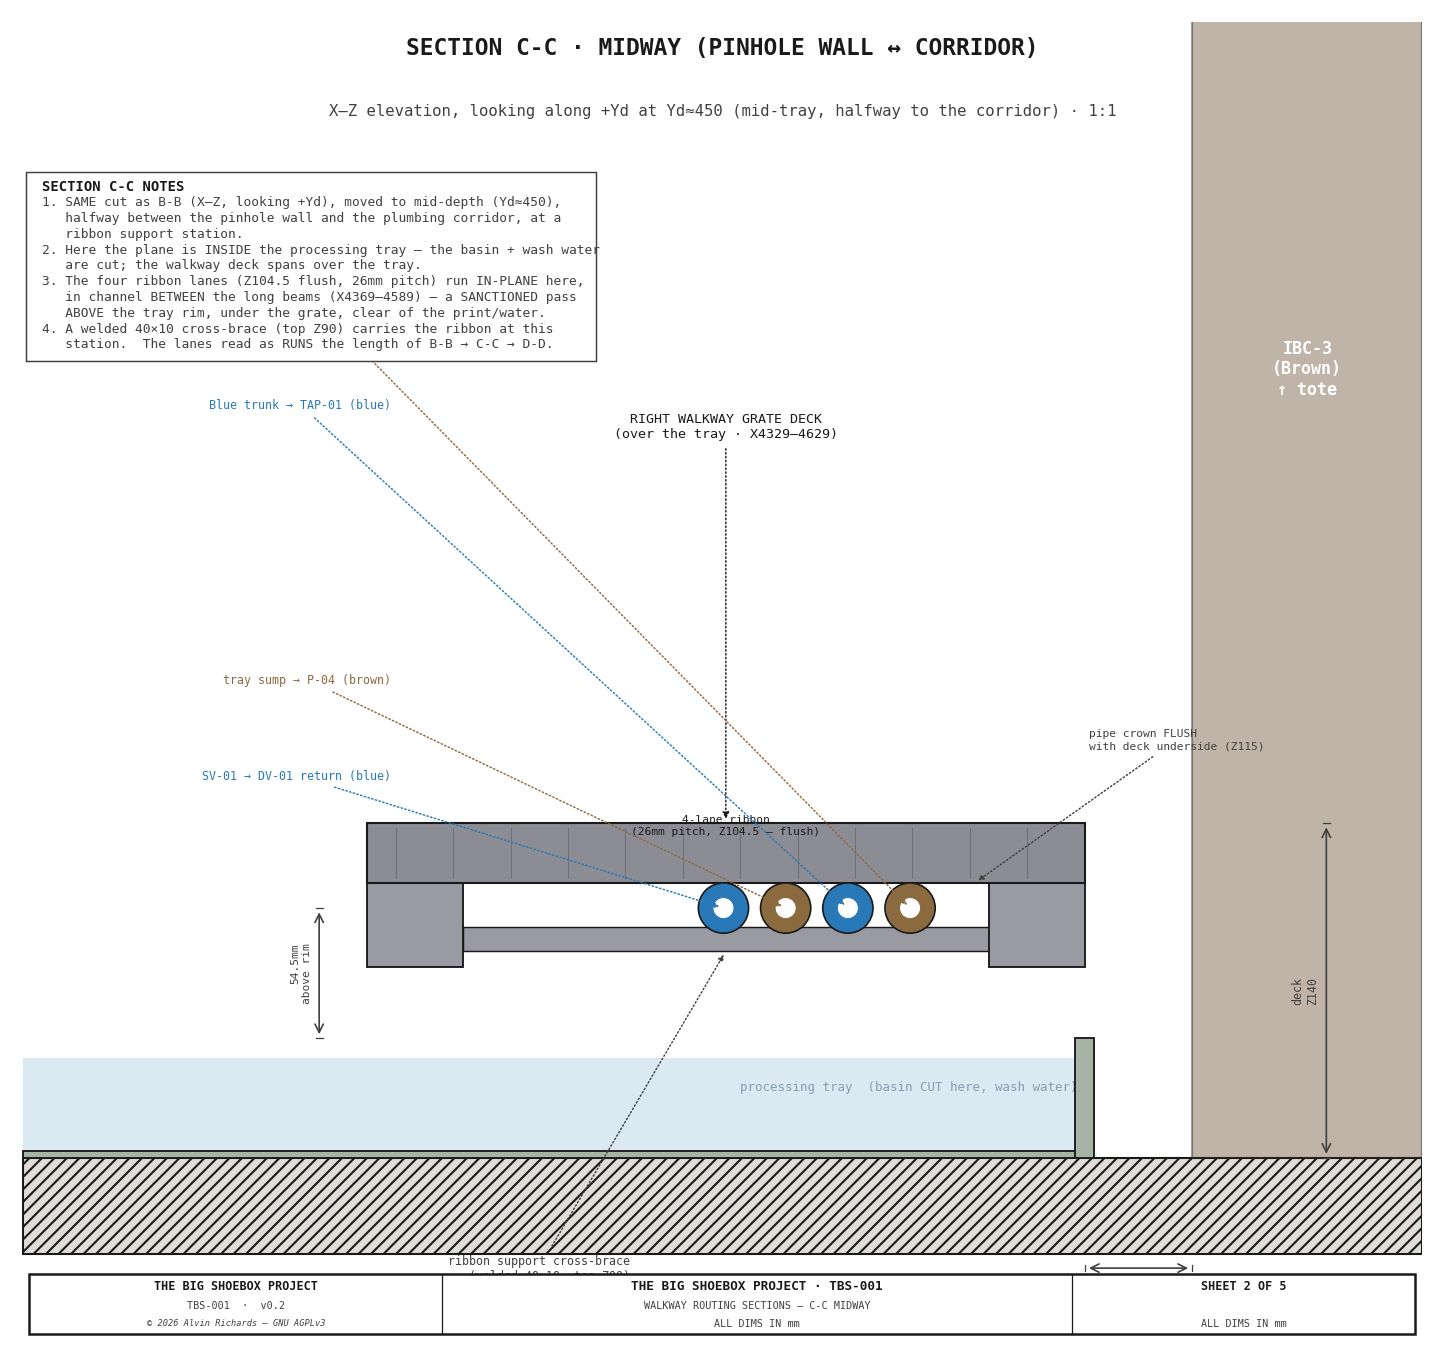
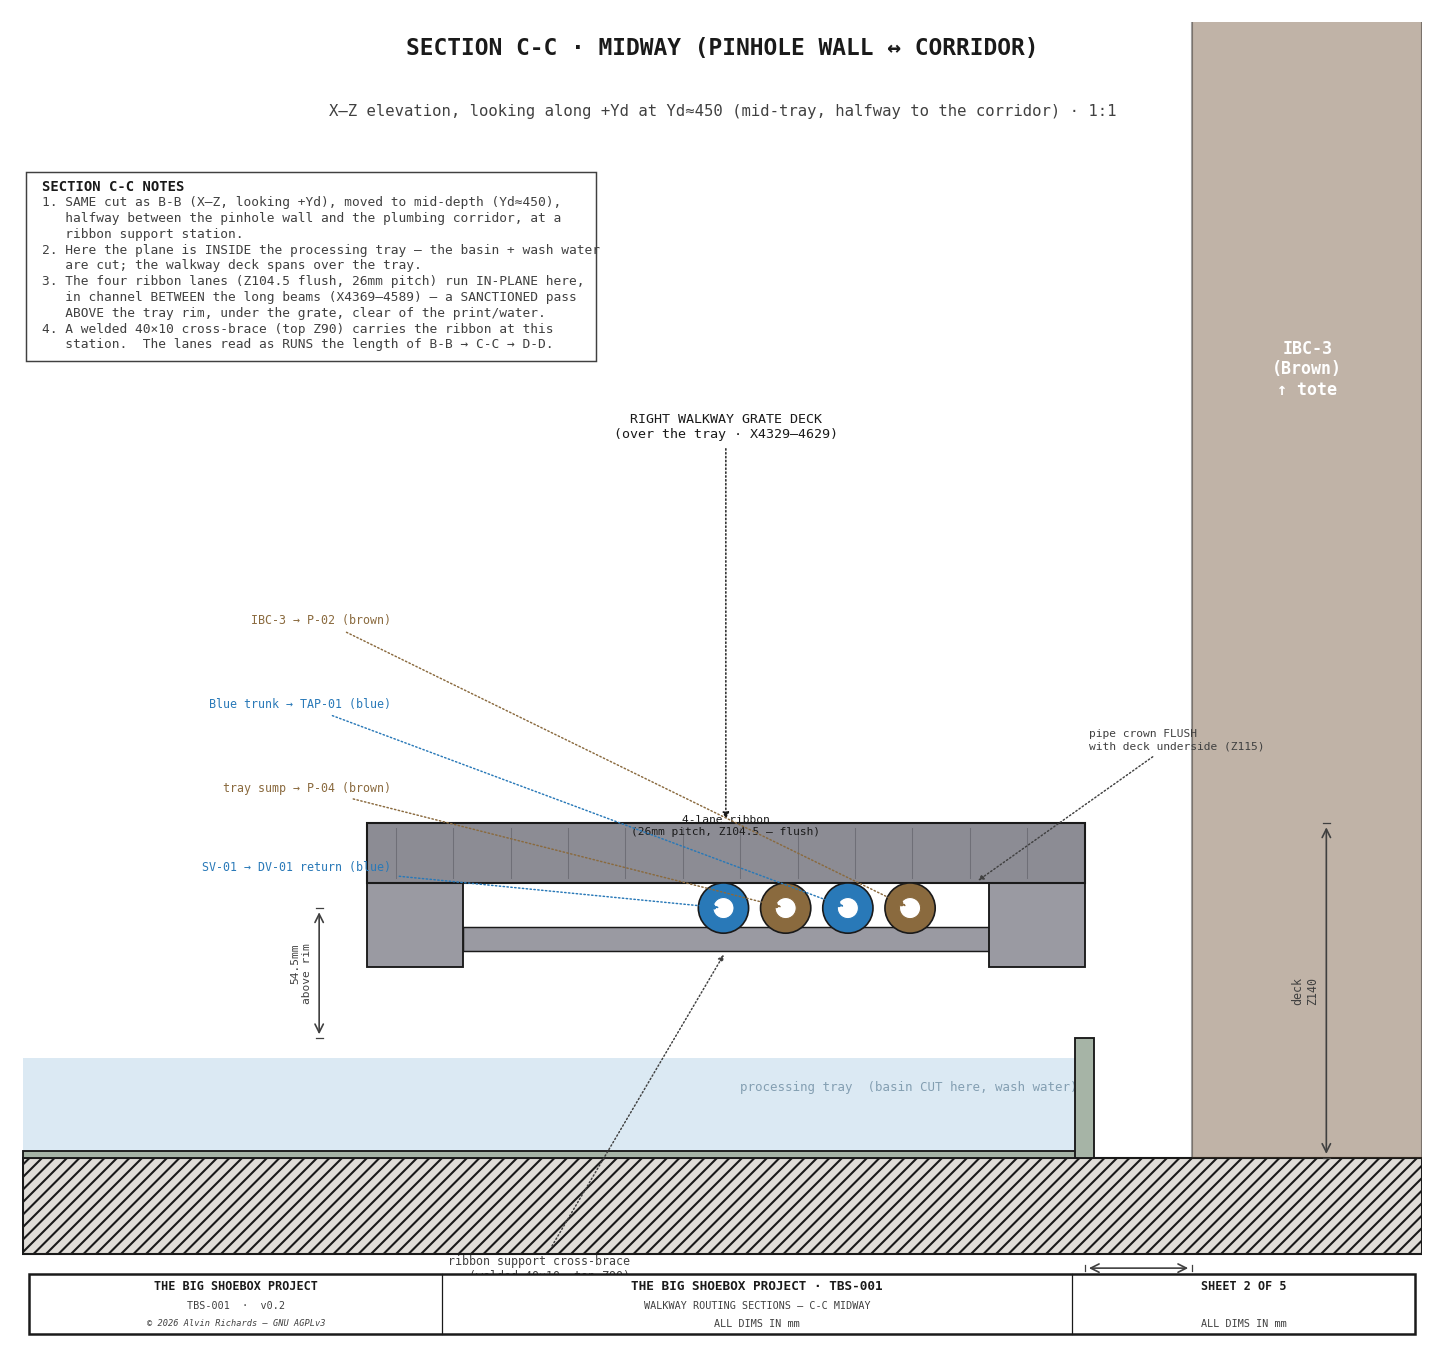
walkway-sections sheet1/2: shorten the ribbon-lane leaders
The four corridor↔pinhole-wall lane labels were stacked high (Z160–355) with
long diagonal leaders down to the ribbon (Z104). Drop them to a compact stack
just above the ribbon (Z122–225), below the 40×40 long-beam label (Z240). Also
un-hides lane 0 (IBC-3 → P-02), which had been sitting behind the notes box.

Changed region(s): [[0.1558, 0.5559, 0.2805, 0.5868], [0.1558, 0.4941, 0.2805, 0.525]]

diff --git a/src/generators/generate_walkway_sections.py b/src/generators/generate_walkway_sections.py
@@ -175,7 +175,7 @@ def sheet1():
     # ── The four ribbon lanes IN-PLANE here, in the channel between the beams (Z104.5, flush) ──
     # At the near end the lines are still in the ribbon; each drops off-section to its wall feature.
     _ribbon_circles(ax, z=RIBBON_Z, z0=12)
-    for (xx, col, tag), lz in zip(RIBBON_LANES, (355, 315, 200, 160)):
+    for (xx, col, tag), lz in zip(RIBBON_LANES, (225, 190, 155, 122)):
         cn = "blue" if col == C_BLUE else "brown"
         leader(ax, xx, RIBBON_Z, CHAN_X0 - 30, lz, f"{tag} ({cn})", color=col, fs=5.6,
                ha="right", va="center", arrow_style="-|>", font=FONT)
@@ -203,7 +203,7 @@ def sheet1():
         "4. The two middle lanes were SWAPPED (blue TAP-01 trunk ↔ brown tray-sump) so blue/brown alternate and no longer cross into the corridor.",
         "5. Off-section (−Yd) each lane drops to its wall feature: the two blue lanes to TAP-01 / the SV-01 filtered return, the two brown lanes on toward the near-rim taps.",
     ]
-    draw_notes(ax, notes, X_LO + 8, Z_HI - 66, 6.6, fs=6.2,
+    draw_notes(ax, notes, X_LO + 8, Z_HI - 40, 6.6, fs=6.2,
                font=FONT, width=225, wrap=72, border_color=C_DIM, border_lw=0.7)
 
     title_block(ax, "SHEET 1 OF 5",
@@ -283,7 +283,7 @@ def sheet2():
     # ── The four ribbon lanes IN-PLANE here (they run the length under the grate) ──
     _ribbon_circles(ax, z=RIBBON_Z, z0=12)
     # Labels pulled LEFT into the clear zone above the tray, never over the IBC-3 tote.
-    for (xx, col, tag), lz in zip(RIBBON_LANES, (355, 315, 200, 160)):
+    for (xx, col, tag), lz in zip(RIBBON_LANES, (225, 190, 155, 122)):
         cn = "blue" if col == C_BLUE else "brown"
         leader(ax, xx, RIBBON_Z, CHAN_X0 - 30, lz, f"{tag} ({cn})", color=col, fs=5.6,
                ha="right", va="center", arrow_style="-|>", font=FONT)
